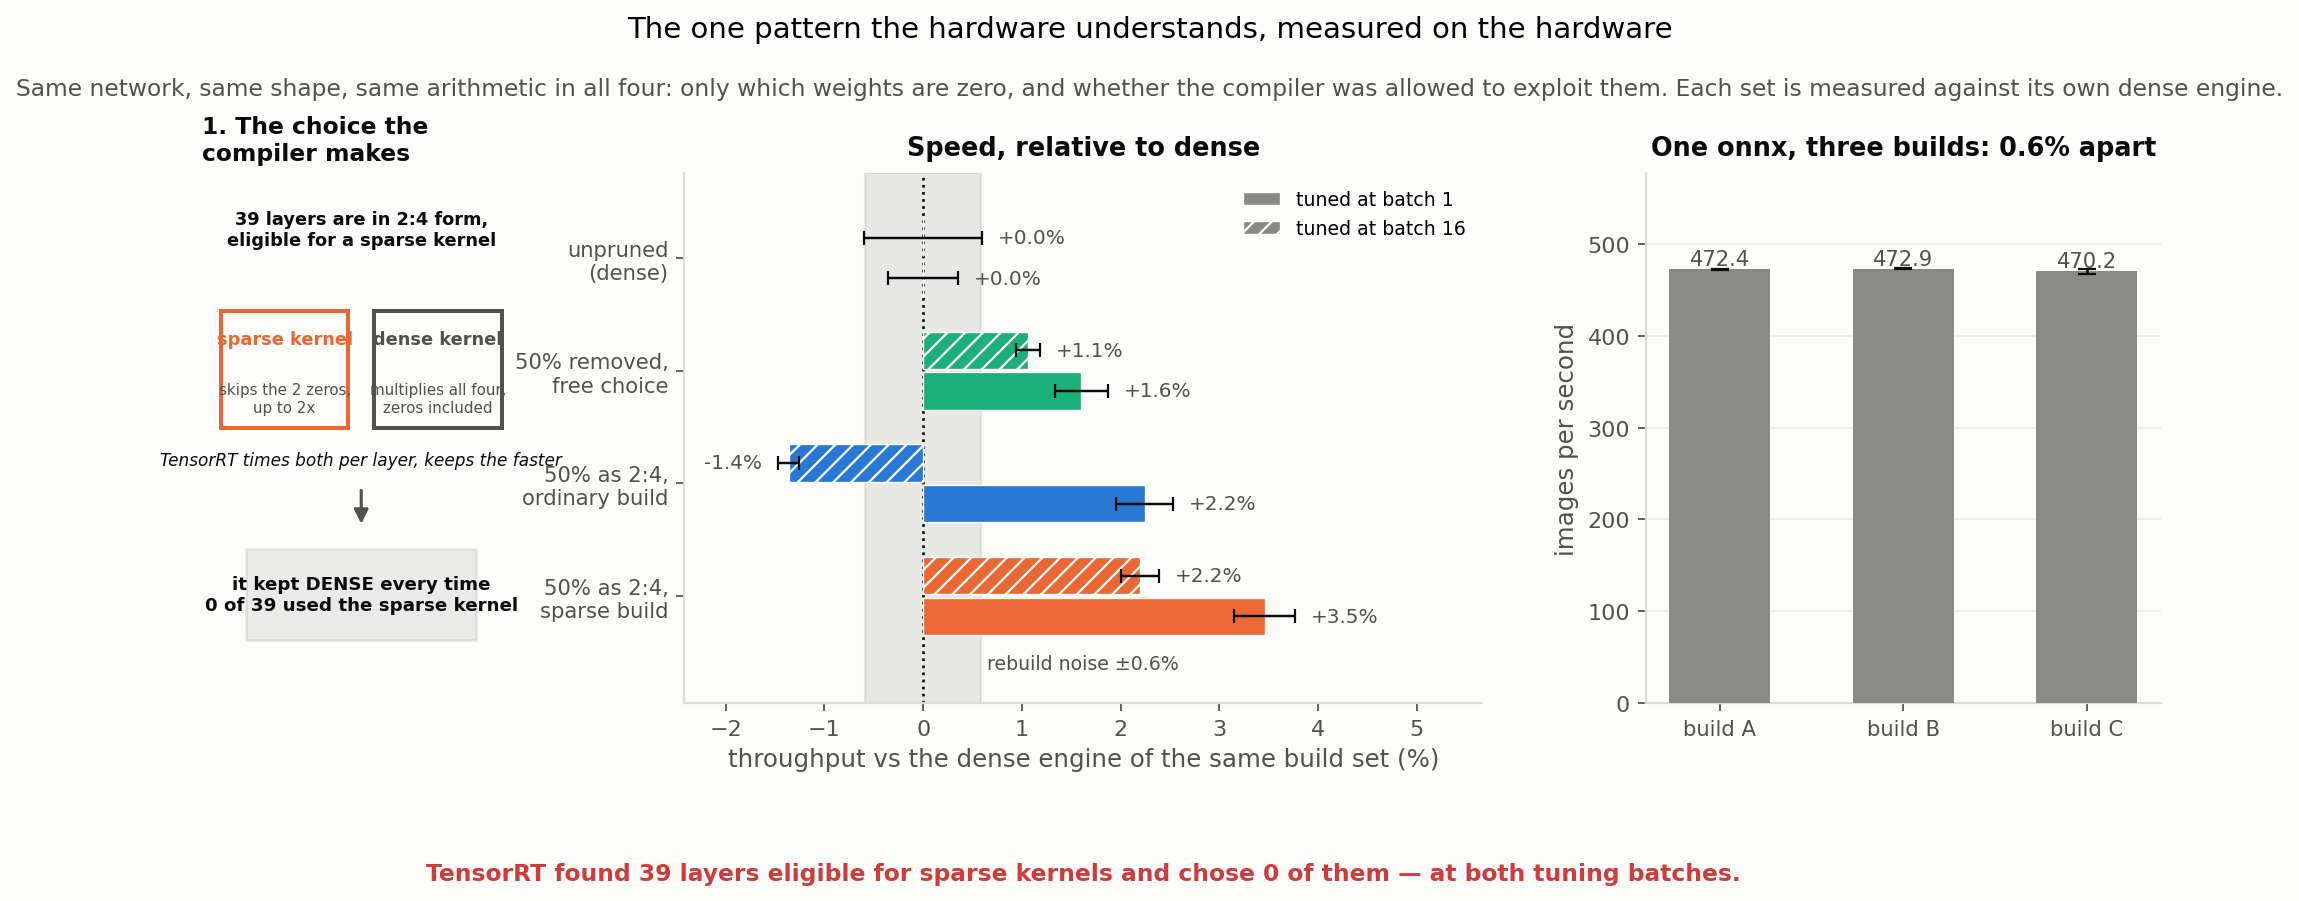
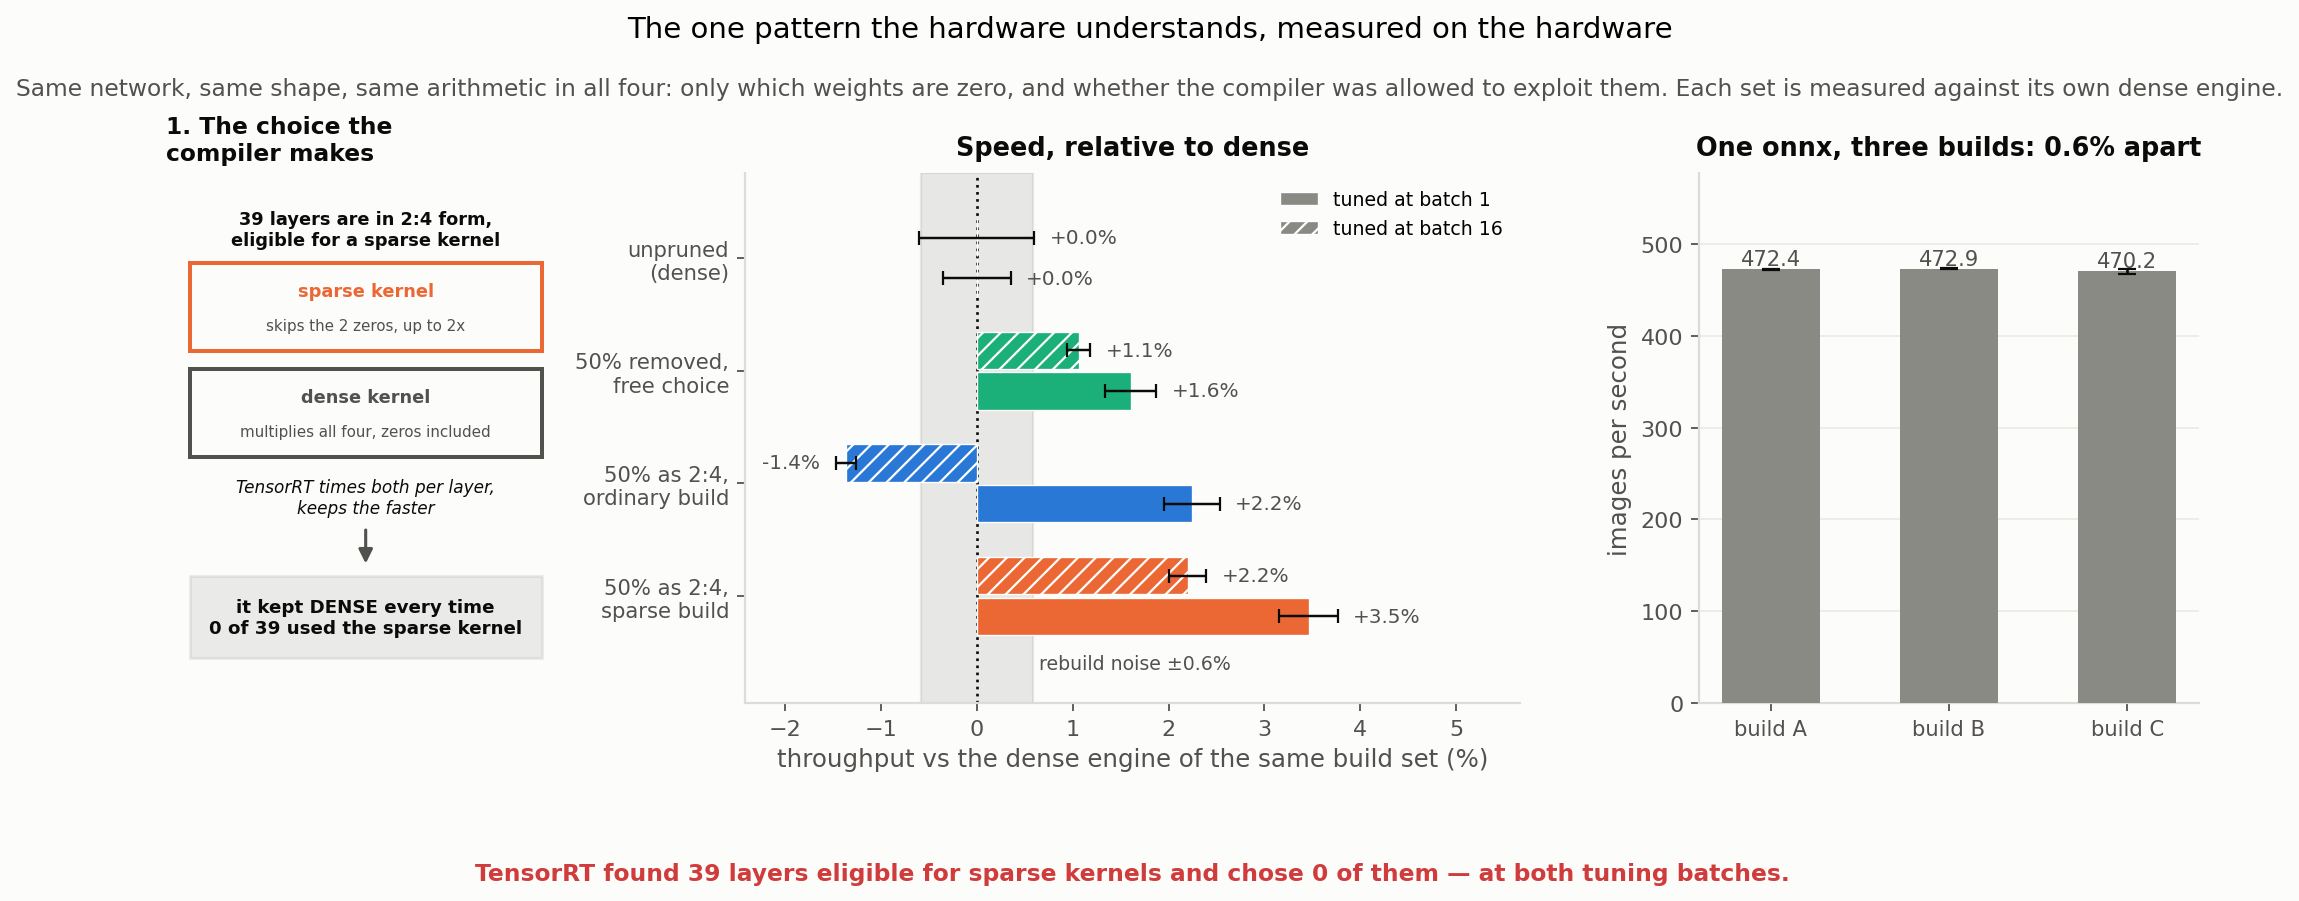
XP6 E4b: stack the schematic's two kernel boxes, they were spilling sideways
Side by side in the narrowest column on the page, neither box was wide enough to
hold its own label: the kernel names overran their borders and the italic caption
under them ran across the next panel's tick labels.

Stacked full-width instead, with the caption on two lines and the column widened
from 0.62 to 0.80 of the gridspec. Same content, and the two kernels now read as
the alternatives they are rather than as a row.

diff --git a/analysis/make_figures.py b/analysis/make_figures.py
@@ -1865,8 +1865,8 @@ def fig_xp06e4b(records) -> Path | None:
     var = [r for r in var if r and usable(r)]
 
     from matplotlib.patches import Rectangle, FancyArrowPatch
-    fig = plt.figure(figsize=(15.8, 4.3))
-    gs = fig.add_gridspec(1, 3, width_ratios=[0.62, 1.55, 1.0], wspace=0.30)
+    fig = plt.figure(figsize=(16.4, 4.3))
+    gs = fig.add_gridspec(1, 3, width_ratios=[0.80, 1.55, 1.0], wspace=0.32)
     sch = fig.add_subplot(gs[0, 0])
     axes = [fig.add_subplot(gs[0, 1]), fig.add_subplot(gs[0, 2])]
     fig.suptitle("The one pattern the hardware understands, measured on the hardware", y=1.11)
@@ -1886,18 +1886,21 @@ def fig_xp06e4b(records) -> Path | None:
                                 linewidth=1.8, zorder=3))
         sch.text(x + w / 2, y + h - 0.35, title, ha="center", va="top", fontsize=8,
                  color=colour, fontweight="bold")
-        sch.text(x + w / 2, y + 0.55, sub, ha="center", va="center", fontsize=6.8,
+        sch.text(x + w / 2, y + 0.48, sub, ha="center", va="center", fontsize=6.8,
                  color=style.INK_2)
 
-    kbox(0.6, 4.6, 4.0, 2.2, style.ORANGE, "sparse kernel", "skips the 2 zeros,\nup to 2x")
-    kbox(5.4, 4.6, 4.0, 2.2, style.INK_2, "dense kernel", "multiplies all four,\nzeros included")
-    sch.text(5, 4.15, "TensorRT times both per layer, keeps the faster",
+    # Stacked, not side by side: this column is the narrowest on the page, and two
+    # boxes abreast leave each one too thin to hold its own label without spilling
+    # over the neighbouring panel's tick labels.
+    kbox(0.6, 6.05, 8.8, 1.65, style.ORANGE, "sparse kernel", "skips the 2 zeros, up to 2x")
+    kbox(0.6, 4.05, 8.8, 1.65, style.INK_2, "dense kernel", "multiplies all four, zeros included")
+    sch.text(5, 3.65, "TensorRT times both per layer,\nkeeps the faster",
              ha="center", va="top", fontsize=7.6, color=style.INK, style="italic")
-    sch.add_patch(FancyArrowPatch((5, 3.5), (5, 2.7), arrowstyle="-|>", mutation_scale=13,
+    sch.add_patch(FancyArrowPatch((5, 2.75), (5, 1.95), arrowstyle="-|>", mutation_scale=13,
                                   color=style.INK_2, linewidth=1.4))
-    sch.add_patch(Rectangle((1.4, 0.6), 7.2, 1.7, facecolor=style.INK_2, alpha=0.10,
+    sch.add_patch(Rectangle((0.6, 0.25), 8.8, 1.55, facecolor=style.INK_2, alpha=0.10,
                             edgecolor=style.INK_2, linewidth=1.3, zorder=2))
-    sch.text(5, 1.45, "it kept DENSE every time\n0 of 39 used the sparse kernel",
+    sch.text(5, 1.02, "it kept DENSE every time\n0 of 39 used the sparse kernel",
              ha="center", va="center", fontsize=8.2, color=style.INK, fontweight="bold")
     style.subtitle(fig, "Same network, same shape, same arithmetic in all four: only which "
                         "weights are zero, and whether the compiler was allowed to exploit "
